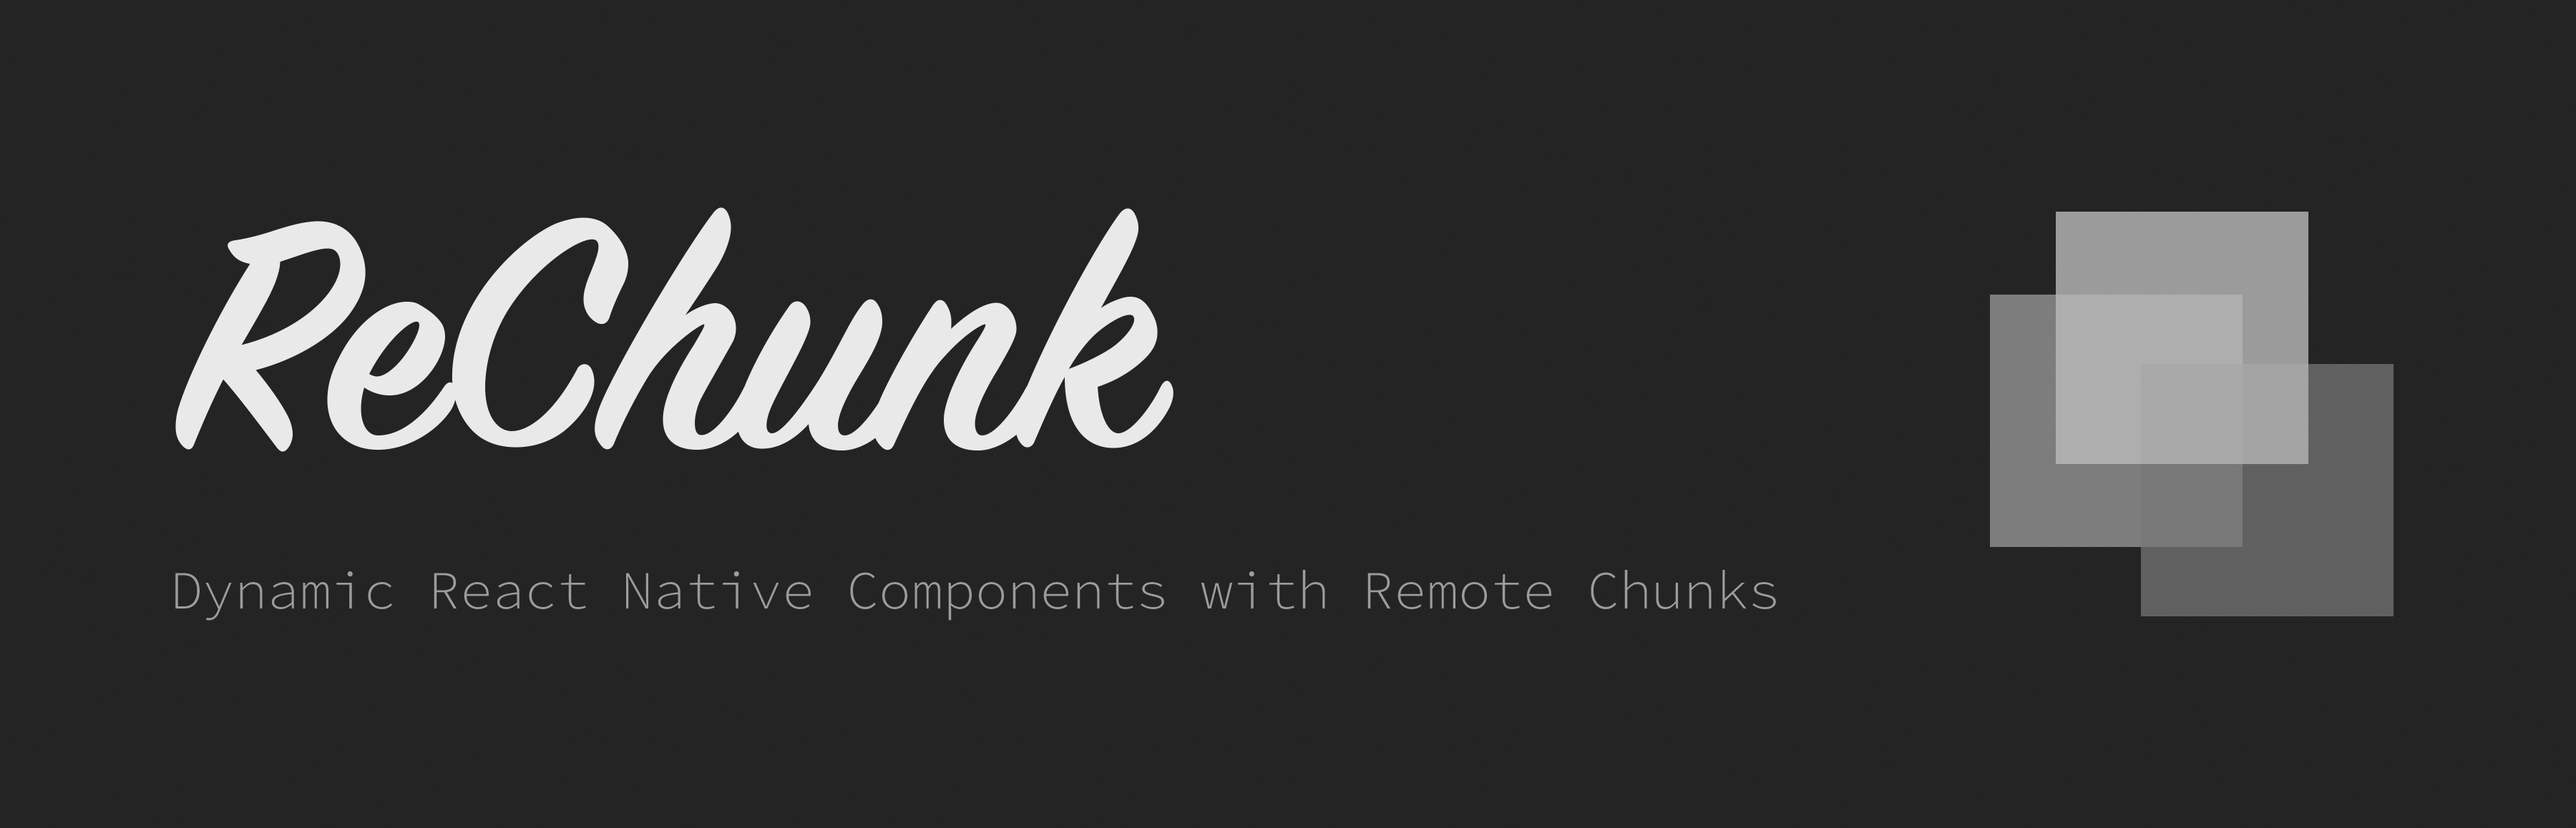
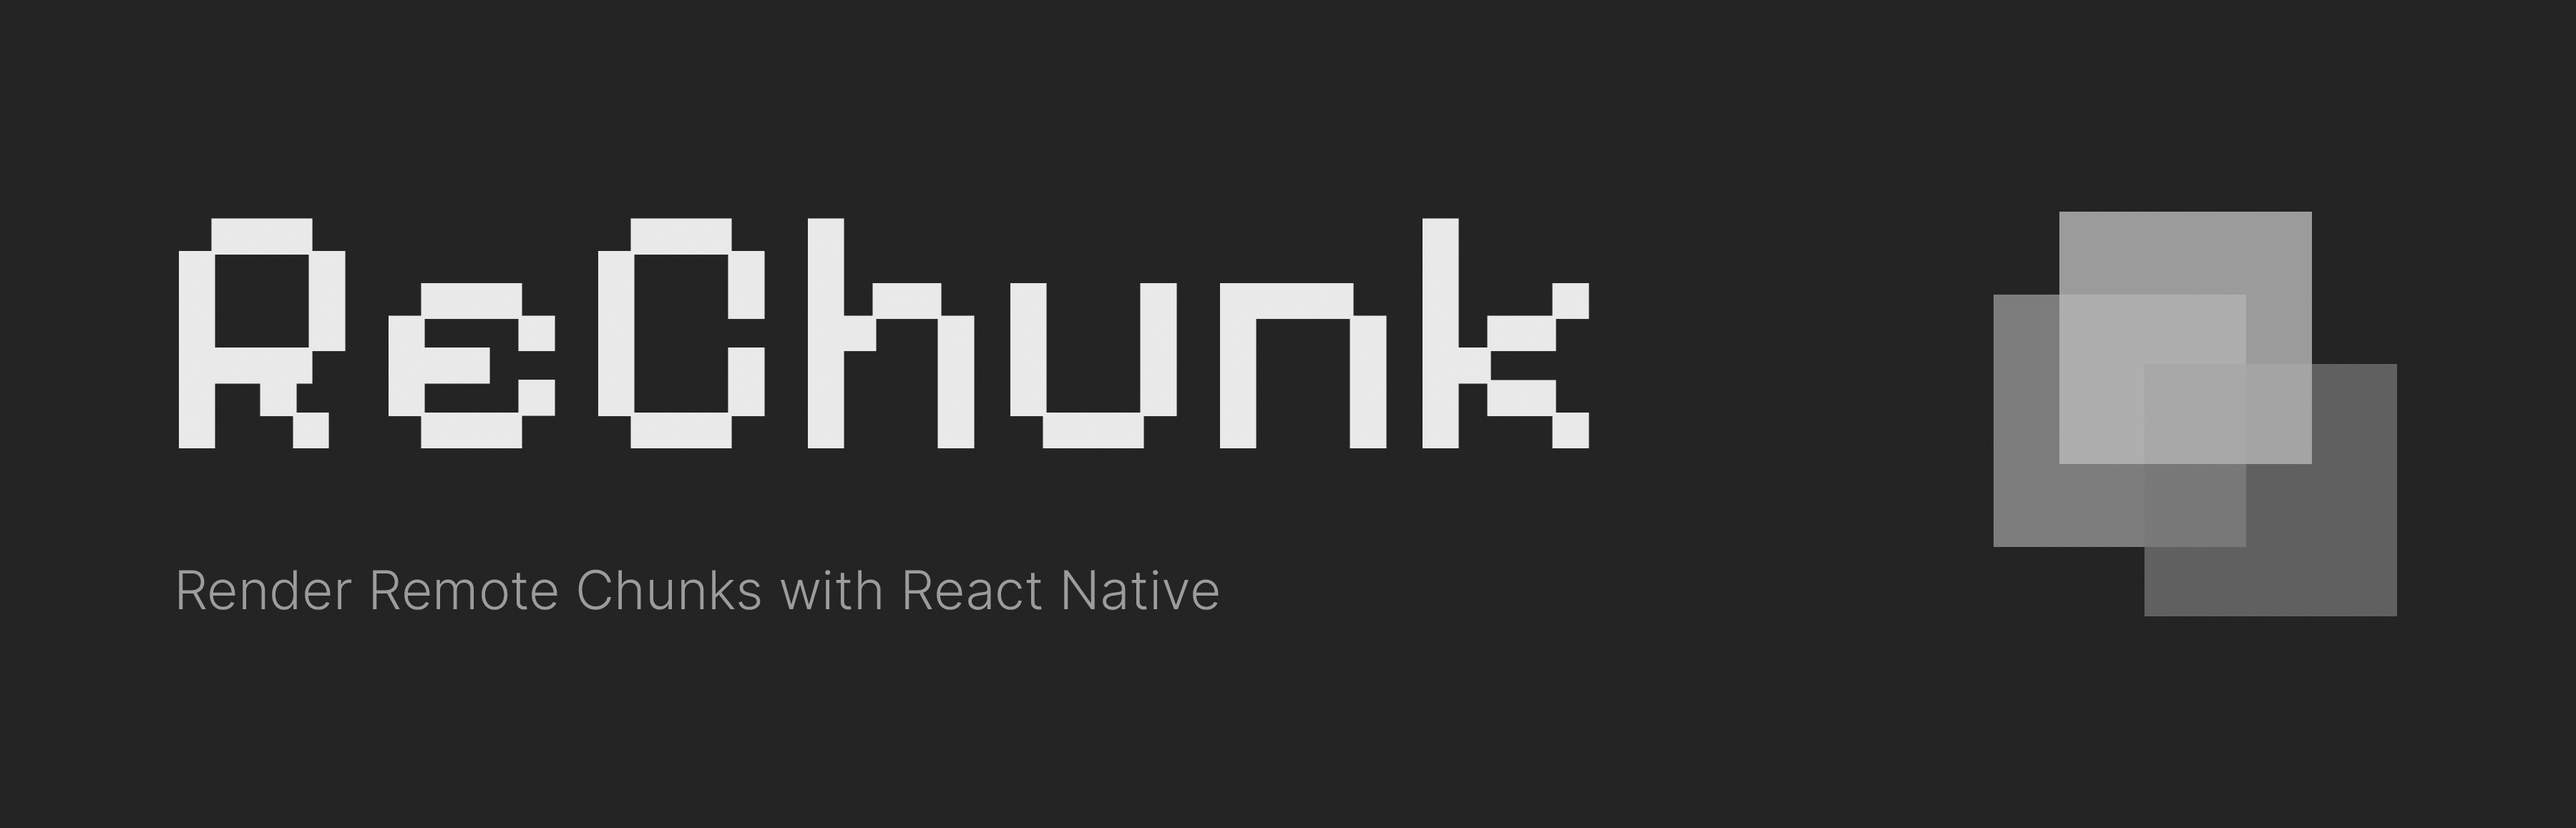
feat(rc): update font assets

Changed region(s): [[0.0622, 0.2487, 0.6222, 0.5596], [0.0622, 0.6839, 0.4978, 0.7461], [0.5289, 0.6839, 0.6844, 0.7461]]

diff --git a/docs/src/tailwind.css b/docs/src/tailwind.css
@@ -8,15 +8,15 @@ https://tailwindcss.com/docs/adding-custom-styles#using-css-and-layer
 */
 
 :root {
-  --sl-font: 'Source Code Pro Variable', monospace;
+  --sl-font: 'Inter Variable', sans-serif;
 }
 
 .site-title {
-  font-family: 'Birthstone', serif;
+  font-family: 'Pixelify Sans Variable', system-ui;
   align-items: center;
   gap: var(--sl-nav-gap);
   font-size: var(--sl-text-h2);
-  font-weight: 600;
+  font-weight: 400;
   color: var(--sl-color-text-accent);
   text-decoration: none;
   white-space: nowrap;
